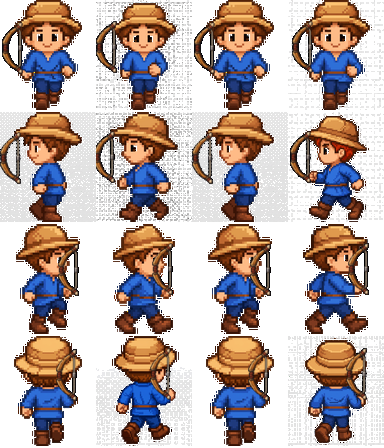
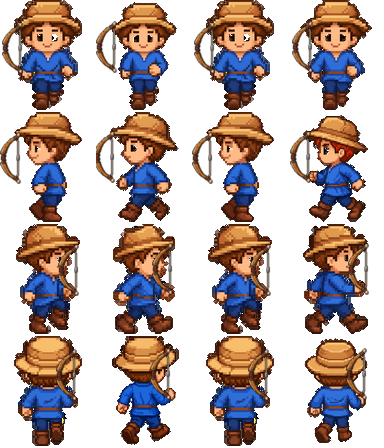
Update character pose images and documentation.
Replit-Commit-Author: Agent

diff --git a/.agents/memory/pose-generated-transparency.md b/.agents/memory/pose-generated-transparency.md
@@ -3,8 +3,8 @@ name: Trasparenza delle pose generate
 description: Precauzione per convertire immagini generate con reticolo in sprite pixel-art trasparenti e allineati.
 ---
 
-Le immagini generate con un reticolo di trasparenza visibile non vanno inserite direttamente nel foglio sprite: il reticolo può avere alfa parziale e viene disegnato dal Canvas, anche quando sembra quasi trasparente.
+Le immagini generate con un reticolo di trasparenza visibile non vanno inserite direttamente nel foglio sprite: il reticolo può contenere grigi chiari, neri e colori isolati con alfa parziale, tutti visibili dal Canvas.
 
-**Why:** Un bordo con alfa residuo altera l'appoggio rilevato dal renderer e mostra quadrati sullo sfondo di gioco.
+**Why:** Un bordo con alfa residuo altera l'appoggio rilevato dal renderer e mostra quadrati o puntini sullo sfondo di gioco, anche se i controlli dimensionali passano.
 
-**How to apply:** Prima dell'assemblaggio, rimuovere le tinte del reticolo, controllare una cella su uno sfondo colorato e verificare che la sagoma finisca alla quota dei piedi prevista dal telaio canonico.
+**How to apply:** Estrarre la trasparenza per singola cella, rimuovere il rumore non connesso alla sagoma e ricomporre gli attrezzi da icone trasparenti se i loro metalli vengono coinvolti. Validare sempre il foglio intero composto su un fondale colorato e verificare anche la quota dei piedi.
